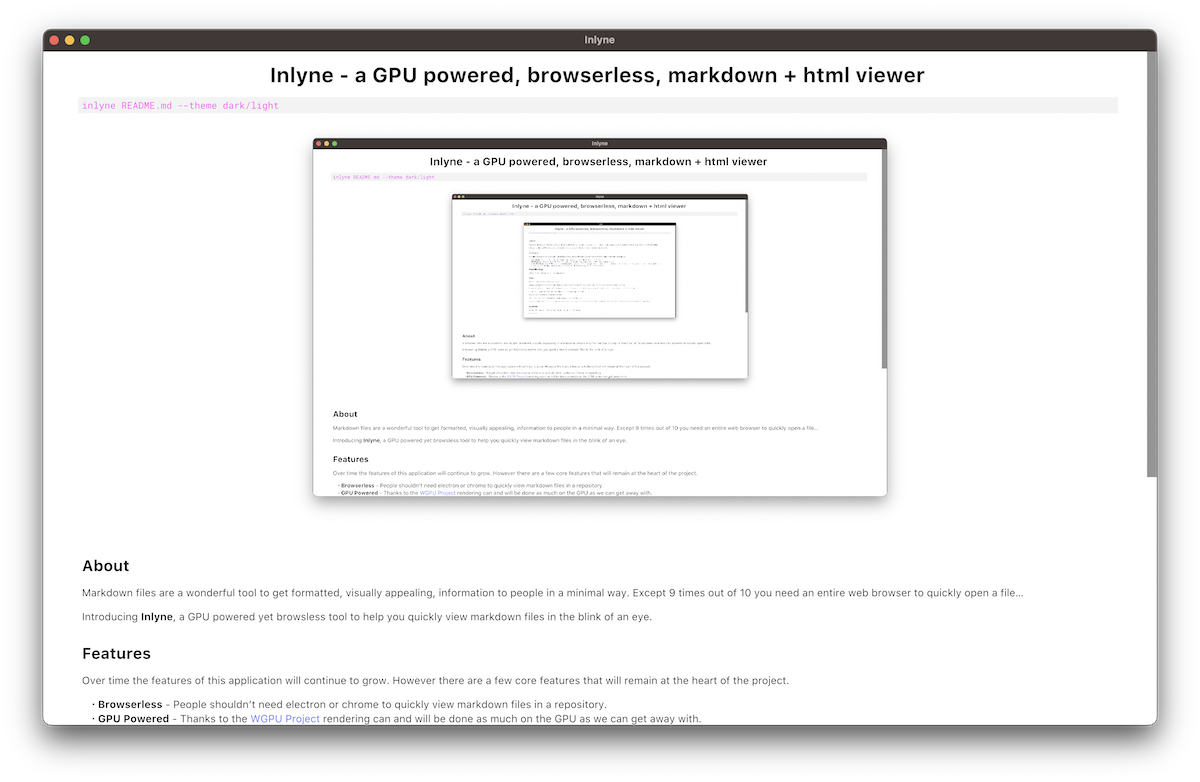
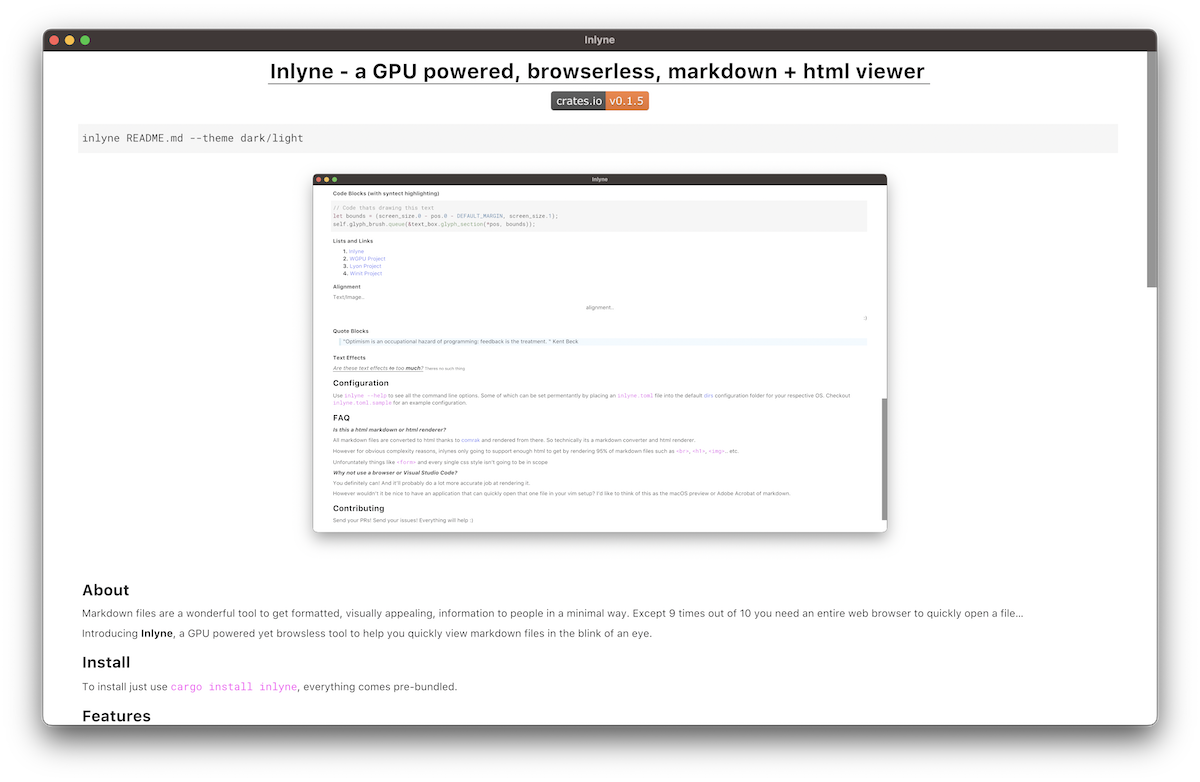
Release v0.1.6

Changed region(s): [[0.0617, 0.0614, 0.7708, 0.7059], [0.0617, 0.7059, 0.8325, 0.9207], [0.9558, 0.3683, 0.9867, 0.6138]]

diff --git a/README.md b/README.md
@@ -1,9 +1,13 @@
 <h1 align="center">Inlyne - a GPU powered, browserless, markdown + html viewer </h1>
 
+<p align="center">
+<a href="https://crates.io/crates/inlyne" target="_blank"><img height=25 src="https://img.shields.io/crates/v/inlyne.svg" /></a>
+</p>
 
-```
+```bash
 inlyne README.md --theme dark/light
 ```
+
 <p align="center">
 <img src="example.png" width="800"/>
 </p>
@@ -42,9 +46,11 @@ support common use cases is necessary, but don't expect forms and buttons.
 #### Sizable images
 <img src="https://i.redd.it/hwurhp7crzf81.png" width = "300" align="center"></img>
 
-#### Code Blocks
-``` 
-sudo rm -rf / # Unix deep system clean command
+#### Code Blocks (with syntect highlighting)
+```rust
+// Code thats drawing this text
+let bounds = (screen_size.0 - pos.0 - DEFAULT_MARGIN, screen_size.1);
+self.glyph_brush.queue(&text_box.glyph_section(*pos, bounds));
 ```
 
 #### Lists and Links
@@ -61,9 +67,17 @@ sudo rm -rf / # Unix deep system clean command
 <p align="center">alignment..</p>
 <p align="right">:)</p>
 
+#### Quote Blocks
+
+> “Optimism is an occupational hazard of programming: feedback is the treatment. “ Kent Beck
+
 #### Text Effects
 
 <i><u>Are these text effects ~~to~~ too **much**?</u></i> <small>Theres no such thing</small>
+
+## Configuration
+
+Use `inlyne --help` to see all the command line options. Some of which can be set permentantly by placing an `inlyne.toml` file into the default [dirs](https://crates.io/crates/dirs) configuration folder for your respective OS. Checkout `inlyne.toml.sample` for an example configuration.
 
 ## FAQ
 
